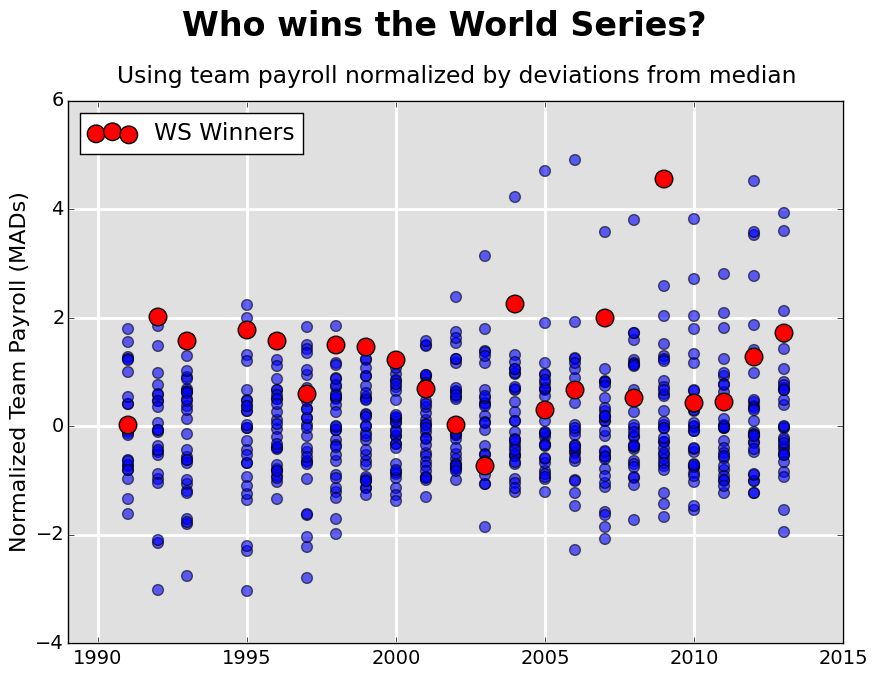
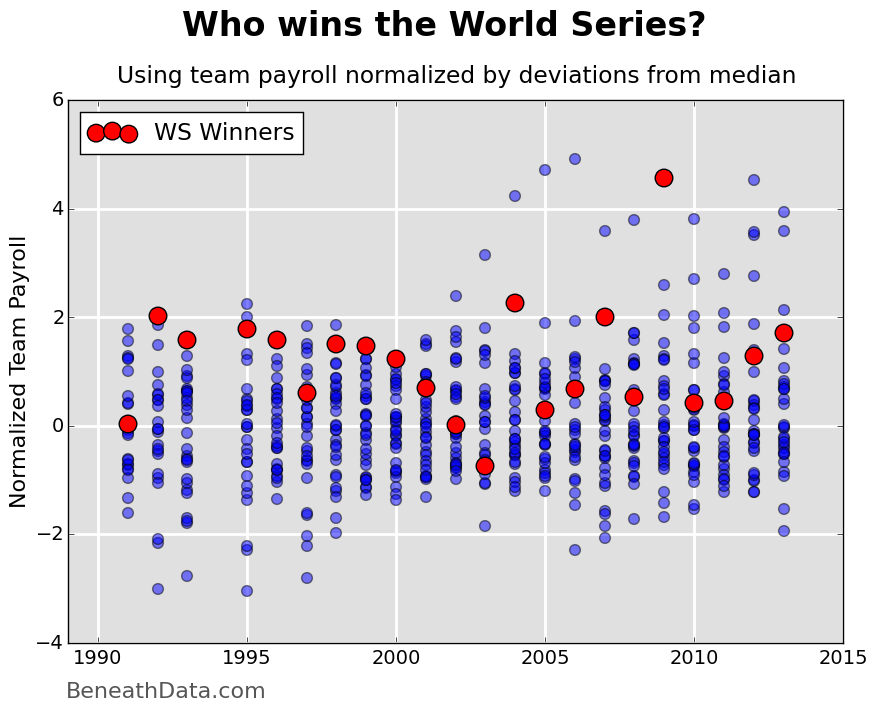
adding website name to the bottom of images.

diff --git a/content/2 - Baseball Team Payroll.md b/content/2 - Baseball Team Payroll.md
@@ -82,7 +82,7 @@ To see if competitive balance has indeed improved since 2003, let's change our m
 
 We can debate money's effect on regular season success all we want, but teams play to win the World Series, not to win 91 games. Just ask Oakland A's fans.[ref]Or Atlanta Braves fans...sigh.[/ref] 
 
-![No matter how you slice it, poor teams aren't makin' the playoffs](/images/baseball/pre_vs_post_luxury_tax_playoff_rate.png)
+<img src="/images/baseball/pre_vs_post_luxury_tax_playoff_rate.png" alt="No matter how you slice it, poor teams aren't makin' the playoffs" style="width: 550px;"/>
 
 Selig's Blue Ribbon Panel found in 1999 that poor teams were not flat out making the playoffs. They were correct. Examining the figure above, we see that from 1995-2003, a meager 12.0% teams in the bottom half of league payroll (Q4 + Q3) were making the playoffs. Conversely, teams in Q1 were making the playoffs _more than half the time_. 
 
